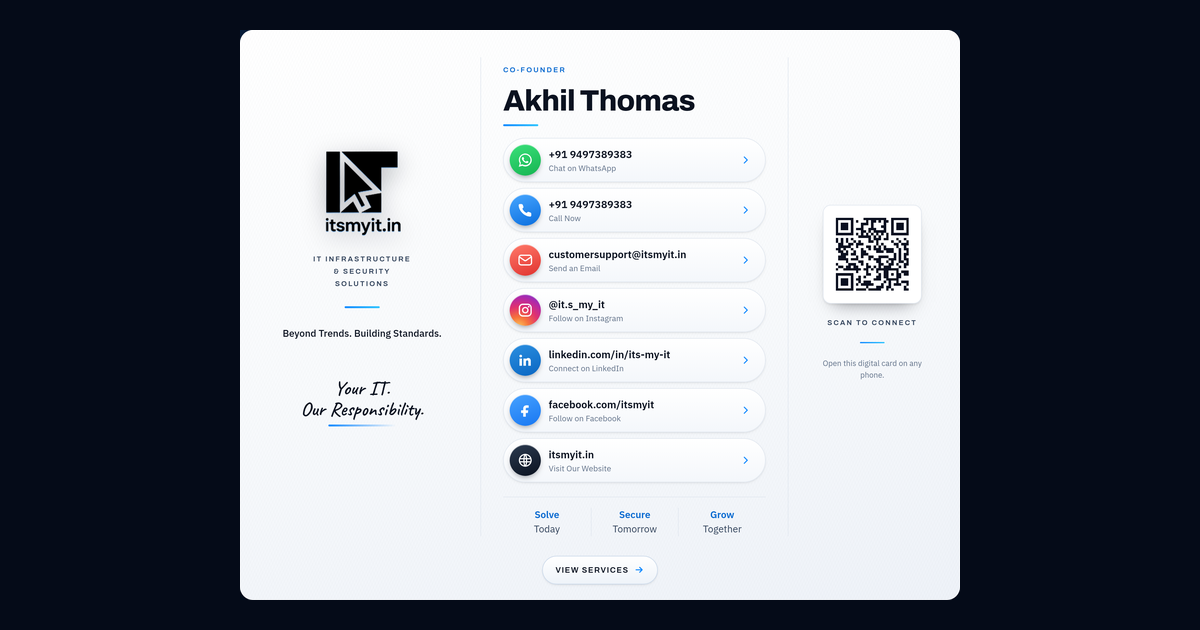
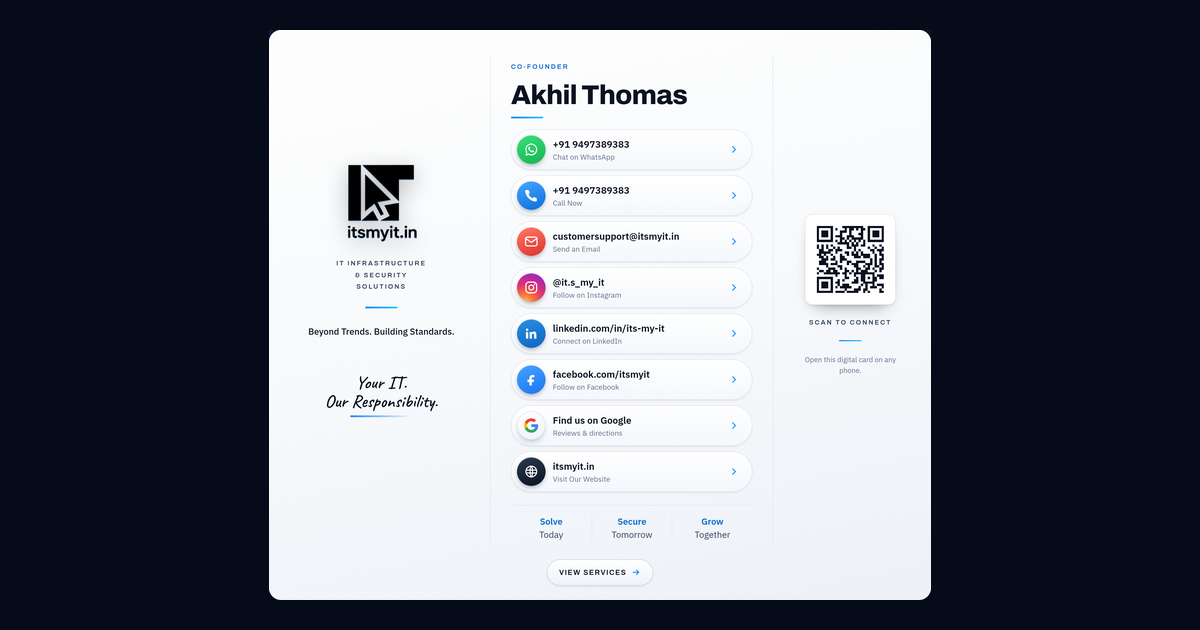
Add a Google row to all three cards
Before: the contact list ran WhatsApp, call, email, Instagram, LinkedIn,
Facebook, website.

After: there is a Google row between Facebook and the website, reading
"Find us on Google — Reviews & directions" and opening
share.google/NpNUqksyQ9rzrSFc5.

It carries Google's own four-colour G on a white badge, so it reads as
Google beside the other platform marks rather than as another blue
circle. The same link joins the social row on the back of the card and
the structured data search engines read, and the link-preview images were
regenerated so they show the new row.

The row is optional in the generator: pass a URL and it appears, leave it
out and the markup is dropped entirely, so a card without a Google page
carries no empty row.

Claude-Session: https://claude.ai/code/session_013QxCK8U32XMV2rHb8ZByBz

diff --git a/justin-sebastian.html b/justin-sebastian.html
@@ -19,7 +19,7 @@
 <meta name="twitter:title" content="Justin Sebastian — Co-Founder, ItsMyIT">
 <meta name="twitter:description" content="IT Infrastructure & Security Solutions. Tap to call, WhatsApp, email or save the contact.">
 <meta name="twitter:image" content="https://itsmyit08-ui.github.io/justin-og.png">
-<script type="application/ld+json">{"@context":"https://schema.org","@graph":[{"@type":"Person","@id":"https://itsmyit08-ui.github.io/justin.html#person","name":"Justin Sebastian","givenName":"Justin","familyName":"Sebastian","jobTitle":"Co-Founder","email":"mailto:justin@itsmyit.in","telephone":"+919497389383","url":"https://itsmyit08-ui.github.io/justin.html","image":"https://itsmyit08-ui.github.io/justin-og.png","worksFor":{"@id":"https://itsmyit.in#org"},"sameAs":["https://www.instagram.com/it.s_my_it/","https://www.linkedin.com/in/its-my-it-288932437","https://www.facebook.com/share/1Dxz8Fxgin/?mibextid=wwXIfr"]},{"@type":"Organization","@id":"https://itsmyit.in#org","name":"ItsMyIT","url":"https://itsmyit.in","email":"mailto:customersupport@itsmyit.in","telephone":"+919497389383","description":"IT Infrastructure & Security Solutions."}]}</script>
+<script type="application/ld+json">{"@context":"https://schema.org","@graph":[{"@type":"Person","@id":"https://itsmyit08-ui.github.io/justin.html#person","name":"Justin Sebastian","givenName":"Justin","familyName":"Sebastian","jobTitle":"Co-Founder","email":"mailto:justin@itsmyit.in","telephone":"+919497389383","url":"https://itsmyit08-ui.github.io/justin.html","image":"https://itsmyit08-ui.github.io/justin-og.png","worksFor":{"@id":"https://itsmyit.in#org"},"sameAs":["https://www.instagram.com/it.s_my_it/","https://www.linkedin.com/in/its-my-it-288932437","https://www.facebook.com/share/1Dxz8Fxgin/?mibextid=wwXIfr","https://share.google/NpNUqksyQ9rzrSFc5"]},{"@type":"Organization","@id":"https://itsmyit.in#org","name":"ItsMyIT","url":"https://itsmyit.in","email":"mailto:customersupport@itsmyit.in","telephone":"+919497389383","description":"IT Infrastructure & Security Solutions."}]}</script>
 <link rel="preconnect" href="https://fonts.googleapis.com">
 <link rel="preconnect" href="https://fonts.gstatic.com" crossorigin>
 <link rel="stylesheet" href="https://fonts.googleapis.com/css2?family=Archivo:wght@500;600;700;800&family=IBM+Plex+Sans:wght@400;500;600&family=Caveat:wght@600&display=swap">
@@ -346,6 +346,7 @@
   .b-li   { background: linear-gradient(160deg, #2b8fe0, #0a66c2); }
   .b-fb   { background: linear-gradient(160deg, #47a2ff, #1877f2); }
   .b-web  { background: linear-gradient(160deg, #2b3a4f, #0b1220); }
+  .b-goo  { background: linear-gradient(160deg, #ffffff, #eef2f8); box-shadow: 0 0 0 1px rgba(19, 44, 80, .12) inset, 0 6px 12px -6px rgba(19, 44, 80, .45); }
 
   .row-text { min-width: 0; }
   .row-main, .row-sub { display: block; }
@@ -768,6 +769,12 @@
                       <span class="row-text"><span class="row-main">facebook.com/itsmyit</span><span class="row-sub">Follow on Facebook</span></span>
                       <svg class="chev" viewBox="0 0 24 24" aria-hidden="true"><path d="m9 5 7 7-7 7" fill="none" stroke="currentColor" stroke-width="2.4" stroke-linecap="round" stroke-linejoin="round"/></svg>
                     </a>
+                    <a class="row" href="https://share.google/NpNUqksyQ9rzrSFc5" target="_blank" rel="noopener noreferrer"
+                       aria-label="Reviews & directions on Google">
+                      <span class="badge b-goo" aria-hidden="true"><svg viewBox="0 0 24 24" aria-hidden="true"><path fill="#4285F4" d="M23.52 12.27c0-.85-.08-1.67-.22-2.45H12v4.64h6.46c-.28 1.5-1.12 2.77-2.39 3.62v3.01h3.87c2.26-2.08 3.58-5.15 3.58-8.82z"/><path fill="#34A853" d="M12 24c3.24 0 5.95-1.08 7.94-2.91l-3.87-3.01c-1.08.72-2.45 1.15-4.07 1.15-3.13 0-5.78-2.11-6.73-4.96H1.28v3.11C3.26 21.3 7.31 24 12 24z"/><path fill="#FBBC05" d="M5.27 14.27c-.24-.72-.38-1.49-.38-2.27s.14-1.55.38-2.27V6.62H1.28A11.99 11.99 0 0 0 0 12c0 1.94.46 3.77 1.28 5.38l3.99-3.11z"/><path fill="#EA4335" d="M12 4.77c1.76 0 3.35.61 4.6 1.8l3.44-3.44C17.95 1.19 15.24 0 12 0 7.31 0 3.26 2.7 1.28 6.62l3.99 3.11C6.22 6.88 8.87 4.77 12 4.77z"/></svg></span>
+                      <span class="row-text"><span class="row-main">Find us on Google</span><span class="row-sub">Reviews & directions</span></span>
+                      <svg class="chev" viewBox="0 0 24 24" aria-hidden="true"><path d="m9 5 7 7-7 7" fill="none" stroke="currentColor" stroke-width="2.4" stroke-linecap="round" stroke-linejoin="round"/></svg>
+                    </a>
                     <a class="row" href="https://itsmyit.in" target="_blank" rel="noopener noreferrer"
                        aria-label="Visit itsmyit.in">
                       <span class="badge b-web" aria-hidden="true"><svg viewBox="0 0 24 24" aria-hidden="true" ><circle cx="12" cy="12" r="9" fill="none" stroke="currentColor" stroke-width="1.8"/><path d="M3.3 9.6h17.4M3.3 14.4h17.4M12 3c2.7 2.9 2.7 15.1 0 18-2.7-2.9-2.7-15.1 0-18Z" fill="none" stroke="currentColor" stroke-width="1.8" stroke-linejoin="round"/></svg></span>
@@ -836,6 +843,7 @@
                   <a href="https://www.instagram.com/it.s_my_it/" target="_blank" rel="noopener noreferrer" aria-label="Instagram"><svg viewBox="0 0 24 24" aria-hidden="true" ><rect x="3" y="3" width="18" height="18" rx="5.2" fill="none" stroke="currentColor" stroke-width="1.9"/><circle cx="12" cy="12" r="4.1" fill="none" stroke="currentColor" stroke-width="1.9"/><circle cx="17.3" cy="6.8" r="1.25" fill="currentColor"/></svg></a>
                   <a href="https://www.linkedin.com/in/its-my-it-288932437" target="_blank" rel="noopener noreferrer" aria-label="LinkedIn"><svg viewBox="0 0 24 24" aria-hidden="true" ><path fill="currentColor" d="M5 3.6a2.1 2.1 0 1 1 0 4.2 2.1 2.1 0 0 1 0-4.2ZM3.1 20.6h3.8V9.5H3.1v11.1Zm6.1 0H13v-6.1c0-2.9 3.7-3.1 3.7 0v6.1h3.8v-7.4c0-5.6-6-5.4-7.5-2.6V9.5H9.2v11.1Z"/></svg></a>
                   <a href="https://www.facebook.com/share/1Dxz8Fxgin/?mibextid=wwXIfr" target="_blank" rel="noopener noreferrer" aria-label="Facebook"><svg viewBox="0 0 24 24" aria-hidden="true" ><path fill="currentColor" d="M14.6 8.2h2.6V4.6c-.45-.06-1.7-.19-3.14-.19-3.1 0-5.23 1.85-5.23 5.25v2.5H5.6v4.05h3.23V22h3.96v-5.79h3.2l.5-4.05h-3.7V10.1c0-1.17.32-1.9 2.01-1.9Z"/></svg></a>
+                  <a href="https://share.google/NpNUqksyQ9rzrSFc5" target="_blank" rel="noopener noreferrer" aria-label="Google"><svg viewBox="0 0 24 24" aria-hidden="true"><path fill="#4285F4" d="M23.52 12.27c0-.85-.08-1.67-.22-2.45H12v4.64h6.46c-.28 1.5-1.12 2.77-2.39 3.62v3.01h3.87c2.26-2.08 3.58-5.15 3.58-8.82z"/><path fill="#34A853" d="M12 24c3.24 0 5.95-1.08 7.94-2.91l-3.87-3.01c-1.08.72-2.45 1.15-4.07 1.15-3.13 0-5.78-2.11-6.73-4.96H1.28v3.11C3.26 21.3 7.31 24 12 24z"/><path fill="#FBBC05" d="M5.27 14.27c-.24-.72-.38-1.49-.38-2.27s.14-1.55.38-2.27V6.62H1.28A11.99 11.99 0 0 0 0 12c0 1.94.46 3.77 1.28 5.38l3.99-3.11z"/><path fill="#EA4335" d="M12 4.77c1.76 0 3.35.61 4.6 1.8l3.44-3.44C17.95 1.19 15.24 0 12 0 7.31 0 3.26 2.7 1.28 6.62l3.99 3.11C6.22 6.88 8.87 4.77 12 4.77z"/></svg></a>
                   <a href="https://itsmyit.in" target="_blank" rel="noopener noreferrer" aria-label="Website"><svg viewBox="0 0 24 24" aria-hidden="true" ><circle cx="12" cy="12" r="9" fill="none" stroke="currentColor" stroke-width="1.8"/><path d="M3.3 9.6h17.4M3.3 14.4h17.4M12 3c2.7 2.9 2.7 15.1 0 18-2.7-2.9-2.7-15.1 0-18Z" fill="none" stroke="currentColor" stroke-width="1.8" stroke-linejoin="round"/></svg></a>
                 </div>
               </div>

diff --git a/justin.html b/justin.html
@@ -19,7 +19,7 @@
 <meta name="twitter:title" content="Justin Sebastian — Co-Founder, ItsMyIT">
 <meta name="twitter:description" content="IT Infrastructure & Security Solutions. Tap to call, WhatsApp, email or save the contact.">
 <meta name="twitter:image" content="https://itsmyit08-ui.github.io/justin-og.png">
-<script type="application/ld+json">{"@context":"https://schema.org","@graph":[{"@type":"Person","@id":"https://itsmyit08-ui.github.io/justin.html#person","name":"Justin Sebastian","givenName":"Justin","familyName":"Sebastian","jobTitle":"Co-Founder","email":"mailto:justin@itsmyit.in","telephone":"+919497389383","url":"https://itsmyit08-ui.github.io/justin.html","image":"https://itsmyit08-ui.github.io/justin-og.png","worksFor":{"@id":"https://itsmyit.in#org"},"sameAs":["https://www.instagram.com/it.s_my_it/","https://www.linkedin.com/in/its-my-it-288932437","https://www.facebook.com/share/1Dxz8Fxgin/?mibextid=wwXIfr"]},{"@type":"Organization","@id":"https://itsmyit.in#org","name":"ItsMyIT","url":"https://itsmyit.in","email":"mailto:customersupport@itsmyit.in","telephone":"+919497389383","description":"IT Infrastructure & Security Solutions."}]}</script>
+<script type="application/ld+json">{"@context":"https://schema.org","@graph":[{"@type":"Person","@id":"https://itsmyit08-ui.github.io/justin.html#person","name":"Justin Sebastian","givenName":"Justin","familyName":"Sebastian","jobTitle":"Co-Founder","email":"mailto:justin@itsmyit.in","telephone":"+919497389383","url":"https://itsmyit08-ui.github.io/justin.html","image":"https://itsmyit08-ui.github.io/justin-og.png","worksFor":{"@id":"https://itsmyit.in#org"},"sameAs":["https://www.instagram.com/it.s_my_it/","https://www.linkedin.com/in/its-my-it-288932437","https://www.facebook.com/share/1Dxz8Fxgin/?mibextid=wwXIfr","https://share.google/NpNUqksyQ9rzrSFc5"]},{"@type":"Organization","@id":"https://itsmyit.in#org","name":"ItsMyIT","url":"https://itsmyit.in","email":"mailto:customersupport@itsmyit.in","telephone":"+919497389383","description":"IT Infrastructure & Security Solutions."}]}</script>
 <link rel="preconnect" href="https://fonts.googleapis.com">
 <link rel="preconnect" href="https://fonts.gstatic.com" crossorigin>
 <link rel="stylesheet" href="https://fonts.googleapis.com/css2?family=Archivo:wght@500;600;700;800&family=IBM+Plex+Sans:wght@400;500;600&family=Caveat:wght@600&display=swap">
@@ -346,6 +346,7 @@
   .b-li   { background: linear-gradient(160deg, #2b8fe0, #0a66c2); }
   .b-fb   { background: linear-gradient(160deg, #47a2ff, #1877f2); }
   .b-web  { background: linear-gradient(160deg, #2b3a4f, #0b1220); }
+  .b-goo  { background: linear-gradient(160deg, #ffffff, #eef2f8); box-shadow: 0 0 0 1px rgba(19, 44, 80, .12) inset, 0 6px 12px -6px rgba(19, 44, 80, .45); }
 
   .row-text { min-width: 0; }
   .row-main, .row-sub { display: block; }
@@ -768,6 +769,12 @@
                       <span class="row-text"><span class="row-main">facebook.com/itsmyit</span><span class="row-sub">Follow on Facebook</span></span>
                       <svg class="chev" viewBox="0 0 24 24" aria-hidden="true"><path d="m9 5 7 7-7 7" fill="none" stroke="currentColor" stroke-width="2.4" stroke-linecap="round" stroke-linejoin="round"/></svg>
                     </a>
+                    <a class="row" href="https://share.google/NpNUqksyQ9rzrSFc5" target="_blank" rel="noopener noreferrer"
+                       aria-label="Reviews & directions on Google">
+                      <span class="badge b-goo" aria-hidden="true"><svg viewBox="0 0 24 24" aria-hidden="true"><path fill="#4285F4" d="M23.52 12.27c0-.85-.08-1.67-.22-2.45H12v4.64h6.46c-.28 1.5-1.12 2.77-2.39 3.62v3.01h3.87c2.26-2.08 3.58-5.15 3.58-8.82z"/><path fill="#34A853" d="M12 24c3.24 0 5.95-1.08 7.94-2.91l-3.87-3.01c-1.08.72-2.45 1.15-4.07 1.15-3.13 0-5.78-2.11-6.73-4.96H1.28v3.11C3.26 21.3 7.31 24 12 24z"/><path fill="#FBBC05" d="M5.27 14.27c-.24-.72-.38-1.49-.38-2.27s.14-1.55.38-2.27V6.62H1.28A11.99 11.99 0 0 0 0 12c0 1.94.46 3.77 1.28 5.38l3.99-3.11z"/><path fill="#EA4335" d="M12 4.77c1.76 0 3.35.61 4.6 1.8l3.44-3.44C17.95 1.19 15.24 0 12 0 7.31 0 3.26 2.7 1.28 6.62l3.99 3.11C6.22 6.88 8.87 4.77 12 4.77z"/></svg></span>
+                      <span class="row-text"><span class="row-main">Find us on Google</span><span class="row-sub">Reviews & directions</span></span>
+                      <svg class="chev" viewBox="0 0 24 24" aria-hidden="true"><path d="m9 5 7 7-7 7" fill="none" stroke="currentColor" stroke-width="2.4" stroke-linecap="round" stroke-linejoin="round"/></svg>
+                    </a>
                     <a class="row" href="https://itsmyit.in" target="_blank" rel="noopener noreferrer"
                        aria-label="Visit itsmyit.in">
                       <span class="badge b-web" aria-hidden="true"><svg viewBox="0 0 24 24" aria-hidden="true" ><circle cx="12" cy="12" r="9" fill="none" stroke="currentColor" stroke-width="1.8"/><path d="M3.3 9.6h17.4M3.3 14.4h17.4M12 3c2.7 2.9 2.7 15.1 0 18-2.7-2.9-2.7-15.1 0-18Z" fill="none" stroke="currentColor" stroke-width="1.8" stroke-linejoin="round"/></svg></span>
@@ -836,6 +843,7 @@
                   <a href="https://www.instagram.com/it.s_my_it/" target="_blank" rel="noopener noreferrer" aria-label="Instagram"><svg viewBox="0 0 24 24" aria-hidden="true" ><rect x="3" y="3" width="18" height="18" rx="5.2" fill="none" stroke="currentColor" stroke-width="1.9"/><circle cx="12" cy="12" r="4.1" fill="none" stroke="currentColor" stroke-width="1.9"/><circle cx="17.3" cy="6.8" r="1.25" fill="currentColor"/></svg></a>
                   <a href="https://www.linkedin.com/in/its-my-it-288932437" target="_blank" rel="noopener noreferrer" aria-label="LinkedIn"><svg viewBox="0 0 24 24" aria-hidden="true" ><path fill="currentColor" d="M5 3.6a2.1 2.1 0 1 1 0 4.2 2.1 2.1 0 0 1 0-4.2ZM3.1 20.6h3.8V9.5H3.1v11.1Zm6.1 0H13v-6.1c0-2.9 3.7-3.1 3.7 0v6.1h3.8v-7.4c0-5.6-6-5.4-7.5-2.6V9.5H9.2v11.1Z"/></svg></a>
                   <a href="https://www.facebook.com/share/1Dxz8Fxgin/?mibextid=wwXIfr" target="_blank" rel="noopener noreferrer" aria-label="Facebook"><svg viewBox="0 0 24 24" aria-hidden="true" ><path fill="currentColor" d="M14.6 8.2h2.6V4.6c-.45-.06-1.7-.19-3.14-.19-3.1 0-5.23 1.85-5.23 5.25v2.5H5.6v4.05h3.23V22h3.96v-5.79h3.2l.5-4.05h-3.7V10.1c0-1.17.32-1.9 2.01-1.9Z"/></svg></a>
+                  <a href="https://share.google/NpNUqksyQ9rzrSFc5" target="_blank" rel="noopener noreferrer" aria-label="Google"><svg viewBox="0 0 24 24" aria-hidden="true"><path fill="#4285F4" d="M23.52 12.27c0-.85-.08-1.67-.22-2.45H12v4.64h6.46c-.28 1.5-1.12 2.77-2.39 3.62v3.01h3.87c2.26-2.08 3.58-5.15 3.58-8.82z"/><path fill="#34A853" d="M12 24c3.24 0 5.95-1.08 7.94-2.91l-3.87-3.01c-1.08.72-2.45 1.15-4.07 1.15-3.13 0-5.78-2.11-6.73-4.96H1.28v3.11C3.26 21.3 7.31 24 12 24z"/><path fill="#FBBC05" d="M5.27 14.27c-.24-.72-.38-1.49-.38-2.27s.14-1.55.38-2.27V6.62H1.28A11.99 11.99 0 0 0 0 12c0 1.94.46 3.77 1.28 5.38l3.99-3.11z"/><path fill="#EA4335" d="M12 4.77c1.76 0 3.35.61 4.6 1.8l3.44-3.44C17.95 1.19 15.24 0 12 0 7.31 0 3.26 2.7 1.28 6.62l3.99 3.11C6.22 6.88 8.87 4.77 12 4.77z"/></svg></a>
                   <a href="https://itsmyit.in" target="_blank" rel="noopener noreferrer" aria-label="Website"><svg viewBox="0 0 24 24" aria-hidden="true" ><circle cx="12" cy="12" r="9" fill="none" stroke="currentColor" stroke-width="1.8"/><path d="M3.3 9.6h17.4M3.3 14.4h17.4M12 3c2.7 2.9 2.7 15.1 0 18-2.7-2.9-2.7-15.1 0-18Z" fill="none" stroke="currentColor" stroke-width="1.8" stroke-linejoin="round"/></svg></a>
                 </div>
               </div>

diff --git a/akhil.html b/akhil.html
@@ -19,7 +19,7 @@
 <meta name="twitter:title" content="Akhil Thomas — Co-Founder, ItsMyIT">
 <meta name="twitter:description" content="IT Infrastructure & Security Solutions. Tap to call, WhatsApp, email or save the contact.">
 <meta name="twitter:image" content="https://itsmyit08-ui.github.io/akhil-og.png">
-<script type="application/ld+json">{"@context":"https://schema.org","@graph":[{"@type":"Person","@id":"https://itsmyit08-ui.github.io/akhil.html#person","name":"Akhil Thomas","givenName":"Akhil","familyName":"Thomas","jobTitle":"Co-Founder","email":"mailto:customersupport@itsmyit.in","telephone":"+919497389383","url":"https://itsmyit08-ui.github.io/akhil.html","image":"https://itsmyit08-ui.github.io/akhil-og.png","worksFor":{"@id":"https://itsmyit.in#org"},"sameAs":["https://www.instagram.com/it.s_my_it/","https://www.linkedin.com/in/its-my-it-288932437","https://www.facebook.com/share/1Dxz8Fxgin/?mibextid=wwXIfr"]},{"@type":"Organization","@id":"https://itsmyit.in#org","name":"ItsMyIT","url":"https://itsmyit.in","email":"mailto:customersupport@itsmyit.in","telephone":"+919497389383","description":"IT Infrastructure & Security Solutions."}]}</script>
+<script type="application/ld+json">{"@context":"https://schema.org","@graph":[{"@type":"Person","@id":"https://itsmyit08-ui.github.io/akhil.html#person","name":"Akhil Thomas","givenName":"Akhil","familyName":"Thomas","jobTitle":"Co-Founder","email":"mailto:customersupport@itsmyit.in","telephone":"+919497389383","url":"https://itsmyit08-ui.github.io/akhil.html","image":"https://itsmyit08-ui.github.io/akhil-og.png","worksFor":{"@id":"https://itsmyit.in#org"},"sameAs":["https://www.instagram.com/it.s_my_it/","https://www.linkedin.com/in/its-my-it-288932437","https://www.facebook.com/share/1Dxz8Fxgin/?mibextid=wwXIfr","https://share.google/NpNUqksyQ9rzrSFc5"]},{"@type":"Organization","@id":"https://itsmyit.in#org","name":"ItsMyIT","url":"https://itsmyit.in","email":"mailto:customersupport@itsmyit.in","telephone":"+919497389383","description":"IT Infrastructure & Security Solutions."}]}</script>
 <link rel="preconnect" href="https://fonts.googleapis.com">
 <link rel="preconnect" href="https://fonts.gstatic.com" crossorigin>
 <link rel="stylesheet" href="https://fonts.googleapis.com/css2?family=Archivo:wght@500;600;700;800&family=IBM+Plex+Sans:wght@400;500;600&family=Caveat:wght@600&display=swap">
@@ -346,6 +346,7 @@
   .b-li   { background: linear-gradient(160deg, #2b8fe0, #0a66c2); }
   .b-fb   { background: linear-gradient(160deg, #47a2ff, #1877f2); }
   .b-web  { background: linear-gradient(160deg, #2b3a4f, #0b1220); }
+  .b-goo  { background: linear-gradient(160deg, #ffffff, #eef2f8); box-shadow: 0 0 0 1px rgba(19, 44, 80, .12) inset, 0 6px 12px -6px rgba(19, 44, 80, .45); }
 
   .row-text { min-width: 0; }
   .row-main, .row-sub { display: block; }
@@ -768,6 +769,12 @@
                       <span class="row-text"><span class="row-main">facebook.com/itsmyit</span><span class="row-sub">Follow on Facebook</span></span>
                       <svg class="chev" viewBox="0 0 24 24" aria-hidden="true"><path d="m9 5 7 7-7 7" fill="none" stroke="currentColor" stroke-width="2.4" stroke-linecap="round" stroke-linejoin="round"/></svg>
                     </a>
+                    <a class="row" href="https://share.google/NpNUqksyQ9rzrSFc5" target="_blank" rel="noopener noreferrer"
+                       aria-label="Reviews & directions on Google">
+                      <span class="badge b-goo" aria-hidden="true"><svg viewBox="0 0 24 24" aria-hidden="true"><path fill="#4285F4" d="M23.52 12.27c0-.85-.08-1.67-.22-2.45H12v4.64h6.46c-.28 1.5-1.12 2.77-2.39 3.62v3.01h3.87c2.26-2.08 3.58-5.15 3.58-8.82z"/><path fill="#34A853" d="M12 24c3.24 0 5.95-1.08 7.94-2.91l-3.87-3.01c-1.08.72-2.45 1.15-4.07 1.15-3.13 0-5.78-2.11-6.73-4.96H1.28v3.11C3.26 21.3 7.31 24 12 24z"/><path fill="#FBBC05" d="M5.27 14.27c-.24-.72-.38-1.49-.38-2.27s.14-1.55.38-2.27V6.62H1.28A11.99 11.99 0 0 0 0 12c0 1.94.46 3.77 1.28 5.38l3.99-3.11z"/><path fill="#EA4335" d="M12 4.77c1.76 0 3.35.61 4.6 1.8l3.44-3.44C17.95 1.19 15.24 0 12 0 7.31 0 3.26 2.7 1.28 6.62l3.99 3.11C6.22 6.88 8.87 4.77 12 4.77z"/></svg></span>
+                      <span class="row-text"><span class="row-main">Find us on Google</span><span class="row-sub">Reviews & directions</span></span>
+                      <svg class="chev" viewBox="0 0 24 24" aria-hidden="true"><path d="m9 5 7 7-7 7" fill="none" stroke="currentColor" stroke-width="2.4" stroke-linecap="round" stroke-linejoin="round"/></svg>
+                    </a>
                     <a class="row" href="https://itsmyit.in" target="_blank" rel="noopener noreferrer"
                        aria-label="Visit itsmyit.in">
                       <span class="badge b-web" aria-hidden="true"><svg viewBox="0 0 24 24" aria-hidden="true" ><circle cx="12" cy="12" r="9" fill="none" stroke="currentColor" stroke-width="1.8"/><path d="M3.3 9.6h17.4M3.3 14.4h17.4M12 3c2.7 2.9 2.7 15.1 0 18-2.7-2.9-2.7-15.1 0-18Z" fill="none" stroke="currentColor" stroke-width="1.8" stroke-linejoin="round"/></svg></span>
@@ -836,6 +843,7 @@
                   <a href="https://www.instagram.com/it.s_my_it/" target="_blank" rel="noopener noreferrer" aria-label="Instagram"><svg viewBox="0 0 24 24" aria-hidden="true" ><rect x="3" y="3" width="18" height="18" rx="5.2" fill="none" stroke="currentColor" stroke-width="1.9"/><circle cx="12" cy="12" r="4.1" fill="none" stroke="currentColor" stroke-width="1.9"/><circle cx="17.3" cy="6.8" r="1.25" fill="currentColor"/></svg></a>
                   <a href="https://www.linkedin.com/in/its-my-it-288932437" target="_blank" rel="noopener noreferrer" aria-label="LinkedIn"><svg viewBox="0 0 24 24" aria-hidden="true" ><path fill="currentColor" d="M5 3.6a2.1 2.1 0 1 1 0 4.2 2.1 2.1 0 0 1 0-4.2ZM3.1 20.6h3.8V9.5H3.1v11.1Zm6.1 0H13v-6.1c0-2.9 3.7-3.1 3.7 0v6.1h3.8v-7.4c0-5.6-6-5.4-7.5-2.6V9.5H9.2v11.1Z"/></svg></a>
                   <a href="https://www.facebook.com/share/1Dxz8Fxgin/?mibextid=wwXIfr" target="_blank" rel="noopener noreferrer" aria-label="Facebook"><svg viewBox="0 0 24 24" aria-hidden="true" ><path fill="currentColor" d="M14.6 8.2h2.6V4.6c-.45-.06-1.7-.19-3.14-.19-3.1 0-5.23 1.85-5.23 5.25v2.5H5.6v4.05h3.23V22h3.96v-5.79h3.2l.5-4.05h-3.7V10.1c0-1.17.32-1.9 2.01-1.9Z"/></svg></a>
+                  <a href="https://share.google/NpNUqksyQ9rzrSFc5" target="_blank" rel="noopener noreferrer" aria-label="Google"><svg viewBox="0 0 24 24" aria-hidden="true"><path fill="#4285F4" d="M23.52 12.27c0-.85-.08-1.67-.22-2.45H12v4.64h6.46c-.28 1.5-1.12 2.77-2.39 3.62v3.01h3.87c2.26-2.08 3.58-5.15 3.58-8.82z"/><path fill="#34A853" d="M12 24c3.24 0 5.95-1.08 7.94-2.91l-3.87-3.01c-1.08.72-2.45 1.15-4.07 1.15-3.13 0-5.78-2.11-6.73-4.96H1.28v3.11C3.26 21.3 7.31 24 12 24z"/><path fill="#FBBC05" d="M5.27 14.27c-.24-.72-.38-1.49-.38-2.27s.14-1.55.38-2.27V6.62H1.28A11.99 11.99 0 0 0 0 12c0 1.94.46 3.77 1.28 5.38l3.99-3.11z"/><path fill="#EA4335" d="M12 4.77c1.76 0 3.35.61 4.6 1.8l3.44-3.44C17.95 1.19 15.24 0 12 0 7.31 0 3.26 2.7 1.28 6.62l3.99 3.11C6.22 6.88 8.87 4.77 12 4.77z"/></svg></a>
                   <a href="https://itsmyit.in" target="_blank" rel="noopener noreferrer" aria-label="Website"><svg viewBox="0 0 24 24" aria-hidden="true" ><circle cx="12" cy="12" r="9" fill="none" stroke="currentColor" stroke-width="1.8"/><path d="M3.3 9.6h17.4M3.3 14.4h17.4M12 3c2.7 2.9 2.7 15.1 0 18-2.7-2.9-2.7-15.1 0-18Z" fill="none" stroke="currentColor" stroke-width="1.8" stroke-linejoin="round"/></svg></a>
                 </div>
               </div>

diff --git a/index.html b/index.html
@@ -19,7 +19,7 @@
 <meta name="twitter:title" content="Besto Thomas — Founder, ItsMyIT">
 <meta name="twitter:description" content="IT Infrastructure & Security Solutions. Tap to call, WhatsApp, email or save the contact.">
 <meta name="twitter:image" content="https://itsmyit08-ui.github.io/og.png">
-<script type="application/ld+json">{"@context":"https://schema.org","@graph":[{"@type":"Person","@id":"https://itsmyit08-ui.github.io/#person","name":"Besto Thomas","givenName":"Besto","familyName":"Thomas","jobTitle":"Founder","email":"mailto:customersupport@itsmyit.in","telephone":"+918111923123","url":"https://itsmyit08-ui.github.io/","image":"https://itsmyit08-ui.github.io/og.png","worksFor":{"@id":"https://itsmyit.in#org"},"sameAs":["https://www.instagram.com/it.s_my_it/","https://www.linkedin.com/in/its-my-it-288932437","https://www.facebook.com/share/1Dxz8Fxgin/?mibextid=wwXIfr"]},{"@type":"Organization","@id":"https://itsmyit.in#org","name":"ItsMyIT","url":"https://itsmyit.in","email":"mailto:customersupport@itsmyit.in","telephone":"+918111923123","description":"IT Infrastructure & Security Solutions."}]}</script>
+<script type="application/ld+json">{"@context":"https://schema.org","@graph":[{"@type":"Person","@id":"https://itsmyit08-ui.github.io/#person","name":"Besto Thomas","givenName":"Besto","familyName":"Thomas","jobTitle":"Founder","email":"mailto:customersupport@itsmyit.in","telephone":"+918111923123","url":"https://itsmyit08-ui.github.io/","image":"https://itsmyit08-ui.github.io/og.png","worksFor":{"@id":"https://itsmyit.in#org"},"sameAs":["https://www.instagram.com/it.s_my_it/","https://www.linkedin.com/in/its-my-it-288932437","https://www.facebook.com/share/1Dxz8Fxgin/?mibextid=wwXIfr","https://share.google/NpNUqksyQ9rzrSFc5"]},{"@type":"Organization","@id":"https://itsmyit.in#org","name":"ItsMyIT","url":"https://itsmyit.in","email":"mailto:customersupport@itsmyit.in","telephone":"+918111923123","description":"IT Infrastructure & Security Solutions."}]}</script>
 <link rel="preconnect" href="https://fonts.googleapis.com">
 <link rel="preconnect" href="https://fonts.gstatic.com" crossorigin>
 <link rel="stylesheet" href="https://fonts.googleapis.com/css2?family=Archivo:wght@500;600;700;800&family=IBM+Plex+Sans:wght@400;500;600&family=Caveat:wght@600&display=swap">
@@ -346,6 +346,7 @@
   .b-li   { background: linear-gradient(160deg, #2b8fe0, #0a66c2); }
   .b-fb   { background: linear-gradient(160deg, #47a2ff, #1877f2); }
   .b-web  { background: linear-gradient(160deg, #2b3a4f, #0b1220); }
+  .b-goo  { background: linear-gradient(160deg, #ffffff, #eef2f8); box-shadow: 0 0 0 1px rgba(19, 44, 80, .12) inset, 0 6px 12px -6px rgba(19, 44, 80, .45); }
 
   .row-text { min-width: 0; }
   .row-main, .row-sub { display: block; }
@@ -1115,6 +1116,12 @@
                       <span class="row-text"><span class="row-main">facebook.com/itsmyit</span><span class="row-sub">Follow on Facebook</span></span>
                       <svg class="chev" viewBox="0 0 24 24" aria-hidden="true"><path d="m9 5 7 7-7 7" fill="none" stroke="currentColor" stroke-width="2.4" stroke-linecap="round" stroke-linejoin="round"/></svg>
                     </a>
+                    <a class="row" href="https://share.google/NpNUqksyQ9rzrSFc5" target="_blank" rel="noopener noreferrer"
+                       aria-label="Reviews & directions on Google">
+                      <span class="badge b-goo" aria-hidden="true"><svg viewBox="0 0 24 24" aria-hidden="true"><path fill="#4285F4" d="M23.52 12.27c0-.85-.08-1.67-.22-2.45H12v4.64h6.46c-.28 1.5-1.12 2.77-2.39 3.62v3.01h3.87c2.26-2.08 3.58-5.15 3.58-8.82z"/><path fill="#34A853" d="M12 24c3.24 0 5.95-1.08 7.94-2.91l-3.87-3.01c-1.08.72-2.45 1.15-4.07 1.15-3.13 0-5.78-2.11-6.73-4.96H1.28v3.11C3.26 21.3 7.31 24 12 24z"/><path fill="#FBBC05" d="M5.27 14.27c-.24-.72-.38-1.49-.38-2.27s.14-1.55.38-2.27V6.62H1.28A11.99 11.99 0 0 0 0 12c0 1.94.46 3.77 1.28 5.38l3.99-3.11z"/><path fill="#EA4335" d="M12 4.77c1.76 0 3.35.61 4.6 1.8l3.44-3.44C17.95 1.19 15.24 0 12 0 7.31 0 3.26 2.7 1.28 6.62l3.99 3.11C6.22 6.88 8.87 4.77 12 4.77z"/></svg></span>
+                      <span class="row-text"><span class="row-main">Find us on Google</span><span class="row-sub">Reviews & directions</span></span>
+                      <svg class="chev" viewBox="0 0 24 24" aria-hidden="true"><path d="m9 5 7 7-7 7" fill="none" stroke="currentColor" stroke-width="2.4" stroke-linecap="round" stroke-linejoin="round"/></svg>
+                    </a>
                     <a class="row" href="https://itsmyit.in" target="_blank" rel="noopener noreferrer"
                        aria-label="Visit itsmyit.in">
                       <span class="badge b-web" aria-hidden="true"><svg viewBox="0 0 24 24" aria-hidden="true" ><circle cx="12" cy="12" r="9" fill="none" stroke="currentColor" stroke-width="1.8"/><path d="M3.3 9.6h17.4M3.3 14.4h17.4M12 3c2.7 2.9 2.7 15.1 0 18-2.7-2.9-2.7-15.1 0-18Z" fill="none" stroke="currentColor" stroke-width="1.8" stroke-linejoin="round"/></svg></span>
@@ -1183,6 +1190,7 @@
                   <a href="https://www.instagram.com/it.s_my_it/" target="_blank" rel="noopener noreferrer" aria-label="Instagram"><svg viewBox="0 0 24 24" aria-hidden="true" ><rect x="3" y="3" width="18" height="18" rx="5.2" fill="none" stroke="currentColor" stroke-width="1.9"/><circle cx="12" cy="12" r="4.1" fill="none" stroke="currentColor" stroke-width="1.9"/><circle cx="17.3" cy="6.8" r="1.25" fill="currentColor"/></svg></a>
                   <a href="https://www.linkedin.com/in/its-my-it-288932437" target="_blank" rel="noopener noreferrer" aria-label="LinkedIn"><svg viewBox="0 0 24 24" aria-hidden="true" ><path fill="currentColor" d="M5 3.6a2.1 2.1 0 1 1 0 4.2 2.1 2.1 0 0 1 0-4.2ZM3.1 20.6h3.8V9.5H3.1v11.1Zm6.1 0H13v-6.1c0-2.9 3.7-3.1 3.7 0v6.1h3.8v-7.4c0-5.6-6-5.4-7.5-2.6V9.5H9.2v11.1Z"/></svg></a>
                   <a href="https://www.facebook.com/share/1Dxz8Fxgin/?mibextid=wwXIfr" target="_blank" rel="noopener noreferrer" aria-label="Facebook"><svg viewBox="0 0 24 24" aria-hidden="true" ><path fill="currentColor" d="M14.6 8.2h2.6V4.6c-.45-.06-1.7-.19-3.14-.19-3.1 0-5.23 1.85-5.23 5.25v2.5H5.6v4.05h3.23V22h3.96v-5.79h3.2l.5-4.05h-3.7V10.1c0-1.17.32-1.9 2.01-1.9Z"/></svg></a>
+                  <a href="https://share.google/NpNUqksyQ9rzrSFc5" target="_blank" rel="noopener noreferrer" aria-label="Google"><svg viewBox="0 0 24 24" aria-hidden="true"><path fill="#4285F4" d="M23.52 12.27c0-.85-.08-1.67-.22-2.45H12v4.64h6.46c-.28 1.5-1.12 2.77-2.39 3.62v3.01h3.87c2.26-2.08 3.58-5.15 3.58-8.82z"/><path fill="#34A853" d="M12 24c3.24 0 5.95-1.08 7.94-2.91l-3.87-3.01c-1.08.72-2.45 1.15-4.07 1.15-3.13 0-5.78-2.11-6.73-4.96H1.28v3.11C3.26 21.3 7.31 24 12 24z"/><path fill="#FBBC05" d="M5.27 14.27c-.24-.72-.38-1.49-.38-2.27s.14-1.55.38-2.27V6.62H1.28A11.99 11.99 0 0 0 0 12c0 1.94.46 3.77 1.28 5.38l3.99-3.11z"/><path fill="#EA4335" d="M12 4.77c1.76 0 3.35.61 4.6 1.8l3.44-3.44C17.95 1.19 15.24 0 12 0 7.31 0 3.26 2.7 1.28 6.62l3.99 3.11C6.22 6.88 8.87 4.77 12 4.77z"/></svg></a>
                   <a href="https://itsmyit.in" target="_blank" rel="noopener noreferrer" aria-label="Website"><svg viewBox="0 0 24 24" aria-hidden="true" ><circle cx="12" cy="12" r="9" fill="none" stroke="currentColor" stroke-width="1.8"/><path d="M3.3 9.6h17.4M3.3 14.4h17.4M12 3c2.7 2.9 2.7 15.1 0 18-2.7-2.9-2.7-15.1 0-18Z" fill="none" stroke="currentColor" stroke-width="1.8" stroke-linejoin="round"/></svg></a>
                 </div>
               </div>
